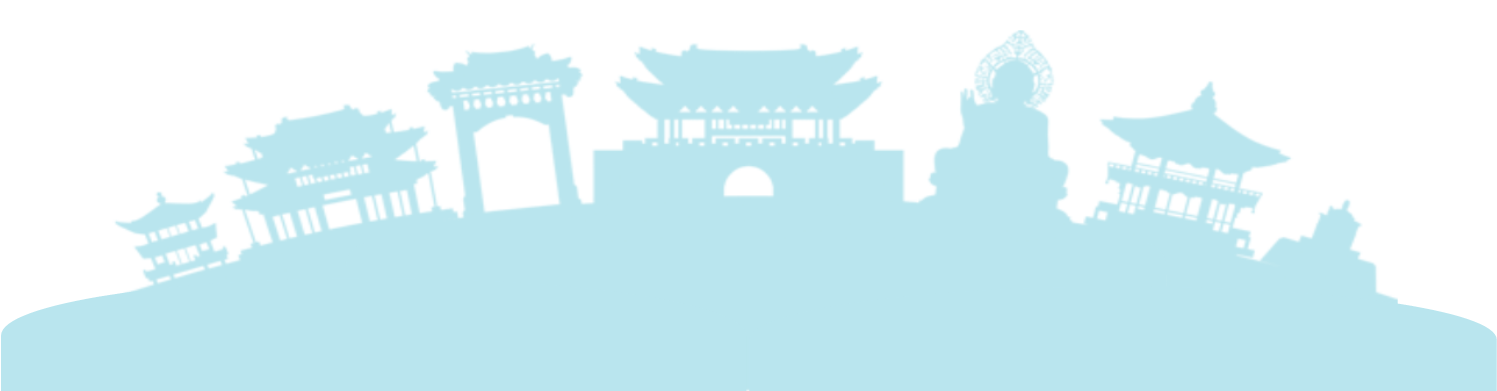
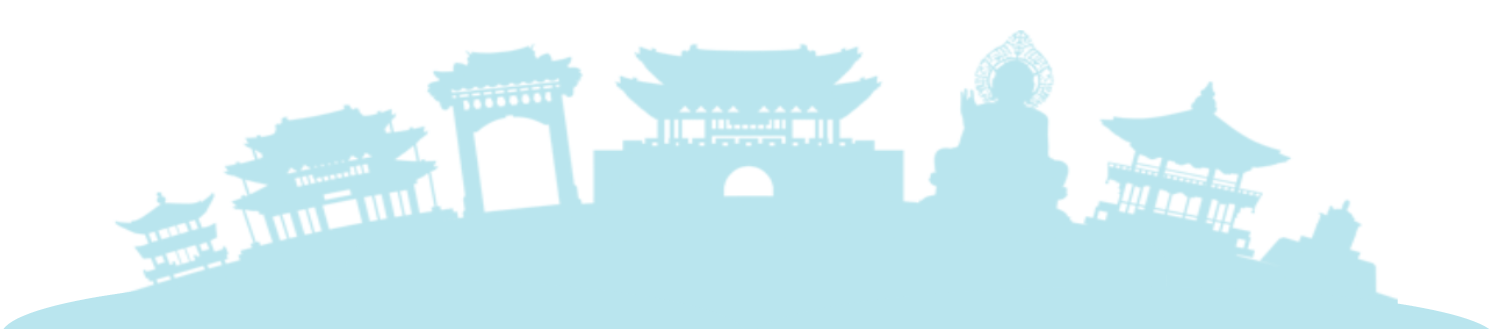
all style is done

Changed region(s): [[0.0, 0.1216, 0.7082, 1.0], [0.6774, 0.2128, 1.0, 1.0]]

diff --git a/src/App.js b/src/App.js
@@ -1,16 +1,16 @@
 import React, { Component } from "react";
-import FriendCard from "./components/FriendCard";
+import LetterCard from "./components/LetterCard";
 import Wrapper from "./components/Wrapper";
 import Title from "./components/Title";
 import Footer from "./components/Footer";
 import Navbar from "./components/Navbar";
-import friends from "./friends.json";
+import letters from "./letters.json";
 import "./App.css";
 
 class App extends Component {
   // Setting this.state.friends to the friends json array
   state = {
-    friends
+    letters
   };
 
   removeFriend = id => {
@@ -44,15 +44,15 @@ class App extends Component {
      <Navbar></Navbar>
       <Title></Title>
       <Wrapper >
-        {this.state.friends.map(friend => (
+        {this.state.letters.map(oneletter => (
           
 
-          <FriendCard
+          <LetterCard
             // removeFriend={this.removeFriend}
             
-            id={friend.id}
-            key={friend.id}
-            image={friend.image}
+            id={oneletter.id}
+            key={oneletter.id}
+            image={oneletter.image}
           />
         ))}
       </Wrapper>

diff --git a/src/components/Navbar/Navbar.css b/src/components/Navbar/Navbar.css
@@ -13,20 +13,19 @@
 
 .navbar a {
     text-decoration: none;
-    color: #fff;
-    font-weight: 900;
+    color: white;
+    /*font-weight: 900;*/
 }
 
 
 .navbar {
-    background: black;
+    background: #484747;
     min-height: 70px;
     position: fixed;
     width: 100%;
-    /*-webkit-box-shadow: 0 14px 28px rgba(0,0,0,.25), 0 10px 10px rgba(0,0,0,.22);*/
     box-shadow: 0 14px 28px rgba(0,0,0,.25), 0 10px 10px rgba(0,0,0,.22);
-    color: #fff;
-    font-size: calc(10px + 14 * (100vw - 320px)/ 800);
+    color: white;
+    font-size: calc(10px + 14 * (100vw - 320px)/ 1000);
     z-index: 99;
     white-space: nowrap;
 }

diff --git a/public/index.html b/public/index.html
@@ -11,7 +11,7 @@
     -->
     <link rel="stylesheet" href="https://stackpath.bootstrapcdn.com/bootstrap/4.1.0/css/bootstrap.min.css" integrity="sha384-9gVQ4dYFwwWSjIDZnLEWnxCjeSWFphJiwGPXr1jddIhOegiu1FwO5qRGvFXOdJZ4" crossorigin="anonymous">
     <link rel="manifest" href="%PUBLIC_URL%/manifest.json">
-    <link rel="shortcut icon" href="%PUBLIC_URL%/favicon.ico">
+    <link rel="shortcut icon" href="%PUBLIC_URL%/fav1.png">
     <!--
       Notice the use of %PUBLIC_URL% in the tags above.
       It will be replaced with the URL of the `public` folder during the build.

diff --git a/src/components/Title/Title.js b/src/components/Title/Title.js
@@ -3,8 +3,9 @@ import "./Title.css";
 
 const Title = props => (
 	<div className="titleblock pt-5 pb-3">
-	<h1 className="title">Korean Alphabet Click</h1>
-	<h4 className="subtitle pb-3">Click hangul letters to earn points, but don't click on one more than once!</h4>
+	<h1 className="title mb-0">Korean Alphabet Click</h1>
+	<p className ="mb-5">한국어  알파벳</p>
+	<h5 className="subtitle pb-3">Click hangul letters to earn points, but don't click on a letter more than once!</h5>
 	</div>
 	);
 

diff --git a/src/components/LetterCard/LetterCard.js b/src/components/LetterCard/LetterCard.js
@@ -1,7 +1,7 @@
 import React from "react";
-import "./FriendCard.css";
+import "./LetterCard.css";
 
-const FriendCard = props => (
+const LetterCard = props => (
   <div className="card">
     <div className="img-container">
       <img alt={props.name} src={props.image} />
@@ -11,4 +11,4 @@ const FriendCard = props => (
   </div>
 );
 
-export default FriendCard;
+export default LetterCard;

diff --git a/src/components/Navbar/Navbar.js b/src/components/Navbar/Navbar.js
@@ -4,7 +4,7 @@ import "./Navbar.css";
 const Navbar = props => (
 	<nav className="navbar p-0">
 		<ul className ="m-0 p-2">
-			<li className="brand"><a href="/">Korean Alphabet Click</a></li>
+			<li><a href="/">Korean Alphabet Click 한국어 알파벳</a></li>
 			<li className="">Guess Feedback Here!</li>
 			<li>Score: ?? | Top Score: ??</li>
 		</ul>

diff --git a/src/components/Title/Title.css b/src/components/Title/Title.css
@@ -4,13 +4,15 @@
   text-align: center;
   font-size: 3rem;
   color: #484747;
-  /*background: darkgray;*/
 }
 
 .titleblock {
 	width: 100%;
 	text-align: center;
 	background: url(/images/titleart.PNG);
+	background-position: center;
+	background-repeat: no-repeat;
+	border-bottom: 4px solid white;
 
 }
 

diff --git a/src/components/Footer/Footer.js b/src/components/Footer/Footer.js
@@ -2,7 +2,7 @@ import React from "react";
 import "./Footer.css";
 
 const Footer = props => (
-	<footer className="footer border-top border-light">
+	<footer className="footer">
 	<div className="bottom">{props.children}</div>
 	</footer>
 );

diff --git a/src/components/LetterCard/LetterCard.css b/src/components/LetterCard/LetterCard.css
@@ -8,7 +8,10 @@
 }
 
 .card:hover .img-container {
-  opacity: 0.5;
+  opacity: .5;
+  border-style: solid;
+  border-width: 5px;
+  border-color: black;
 }
 
 .card > .img-container {

diff --git a/src/components/Footer/Footer.css b/src/components/Footer/Footer.css
@@ -5,7 +5,5 @@ footer {
 	padding-top: 30px;
 	color: white;
 	font-size: 10px;
-	border-width: 3px;
-	border-top: 3px;
-	border-color: white;
+	border-top: 4px solid white;
 }

diff --git a/src/components/LetterCard/index.js b/src/components/LetterCard/index.js
@@ -1,0 +1,1 @@
+export { default } from "./LetterCard";
